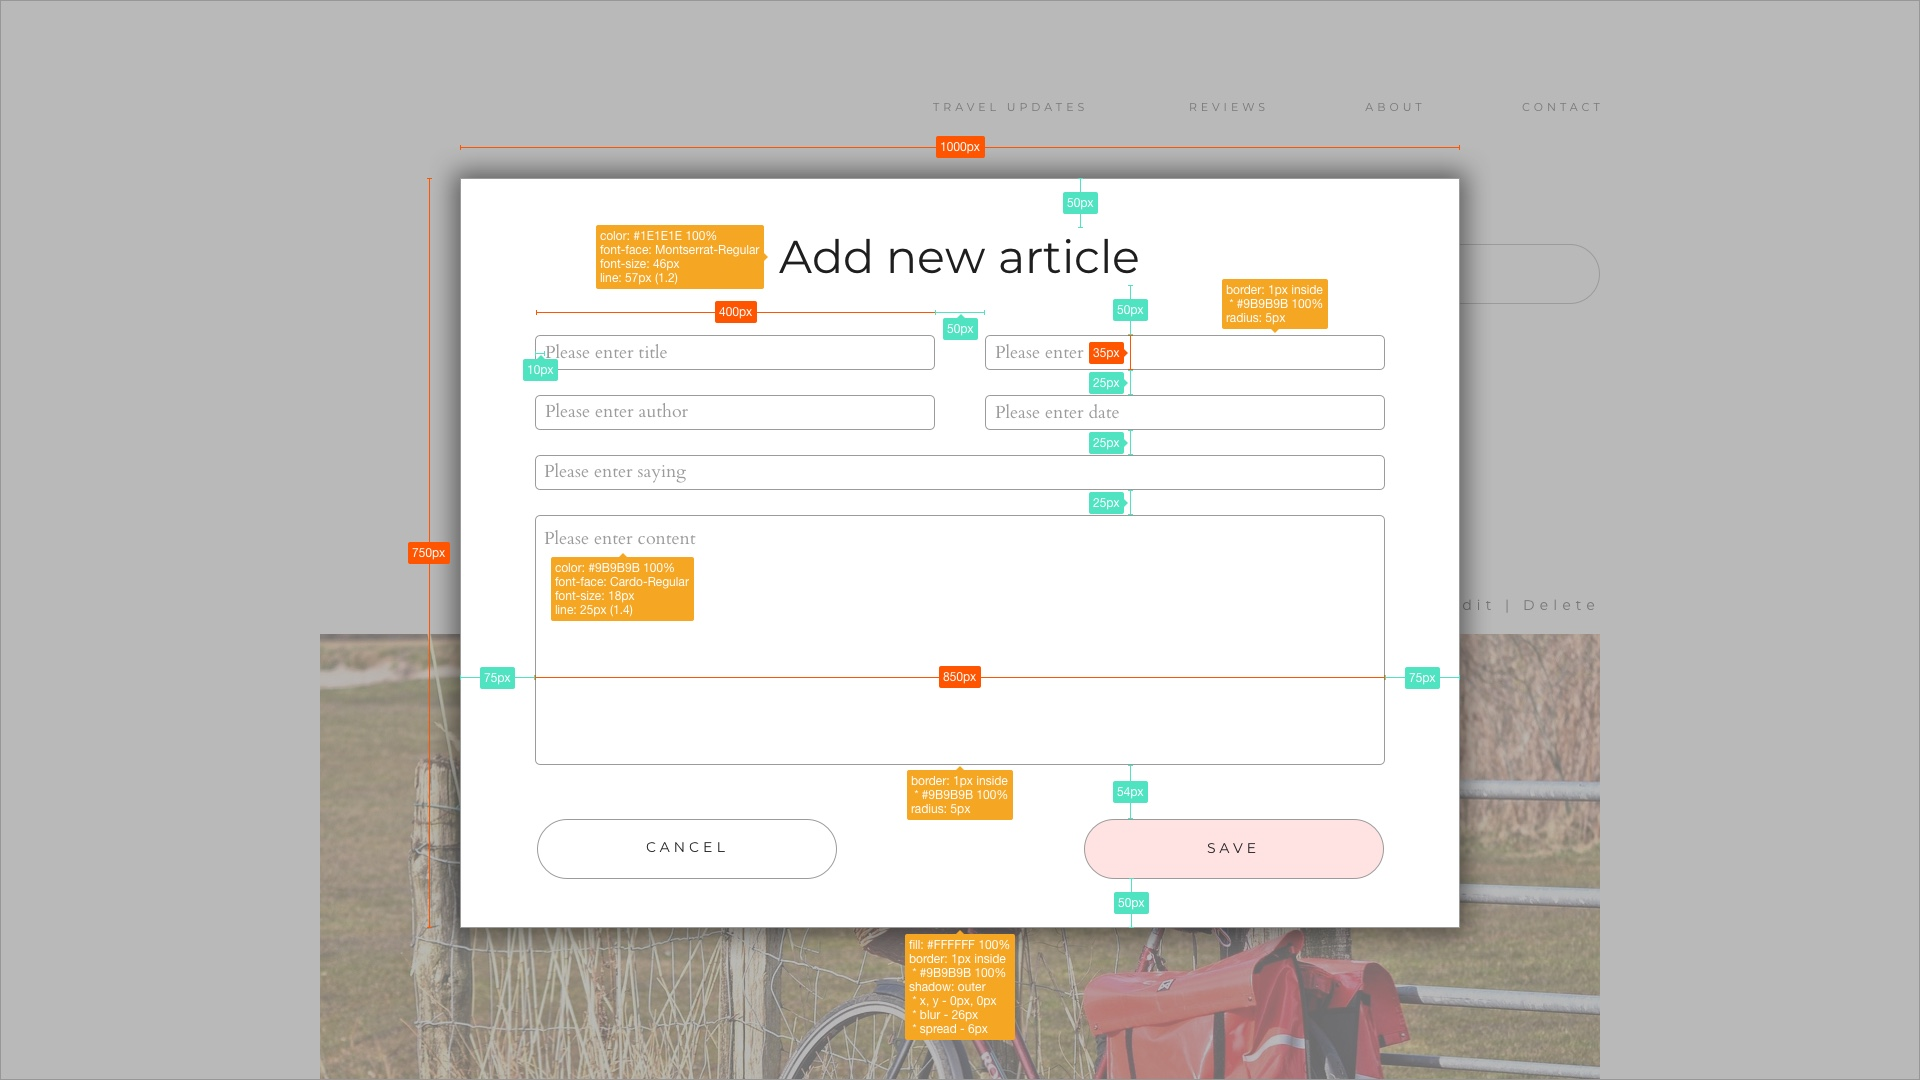
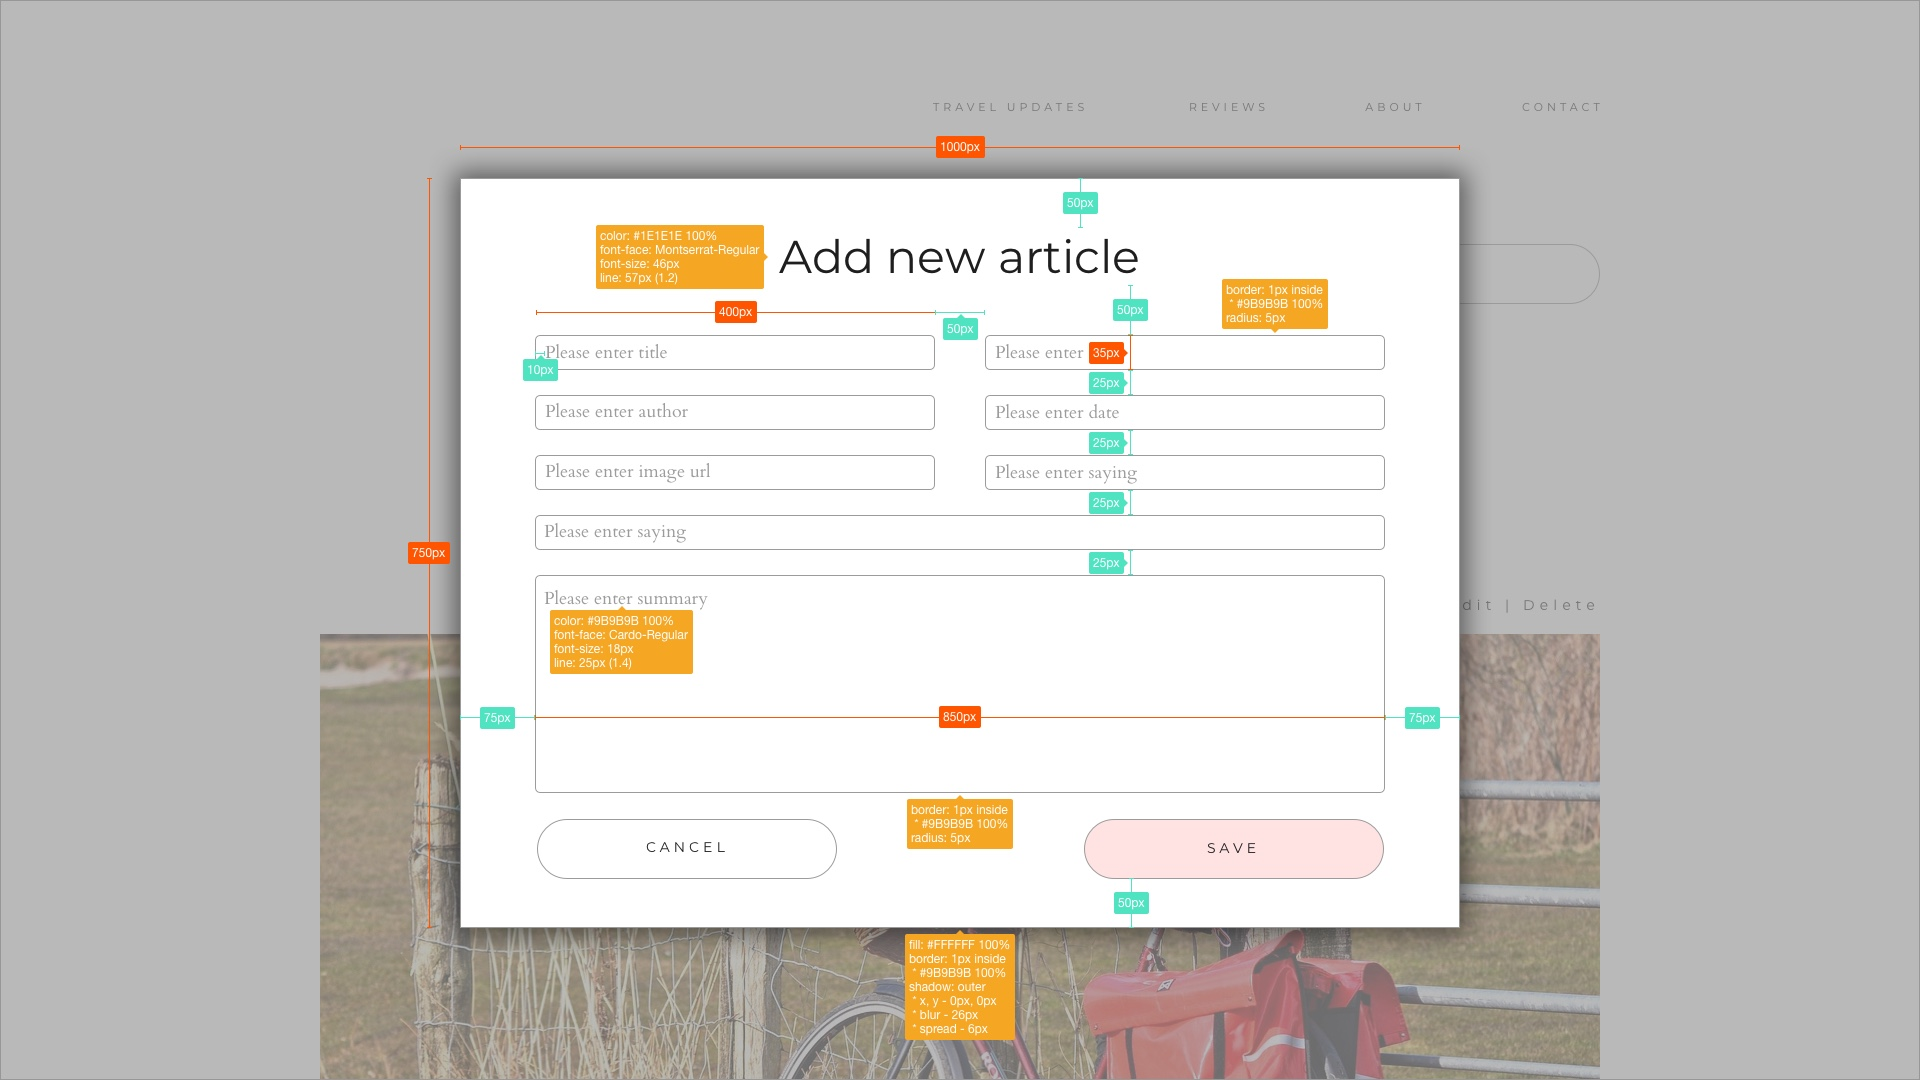
Updated design - Added summary

diff --git a/Day-2_Basic-JS/Exercise/Code/index.html b/Day-2_Basic-JS/Exercise/Code/index.html
@@ -176,9 +176,11 @@
                     <input id="tag" type="text" class="input" placeholder="Please enter tag">
                     <input id="author" type="text" class="input" placeholder="Please enter author">
                     <input id="date" type="text" class="input" placeholder="Please enter date">
-                    <input id="saying" type="text" class="input input--big" placeholder="Please enter saying">
+                    <input id="imgUrl" type="text" class="input" placeholder="Please enter image url">
+                    <input id="saying" type="text" class="input" placeholder="Please enter saying">
+                    <input id="summary" type="text" class="input input--big" placeholder="Please enter summary">
                 </div>
-                <textarea id="content" class="textarea" name="content" cols="28" rows="10" placeholder="Please enter content"></textarea>
+                <textarea id="content" class="textarea" name="content" cols="28" rows="7" placeholder="Please enter content"></textarea>
                 <div class="modal__buttons">
                     <button id="save" type="button" class="button">Cancel</button>
                     <button id="cancel" type="button" class="button button--pink">Save</button>

diff --git a/Day-1_HTML-CSS/Exercise/README.md b/Day-1_HTML-CSS/Exercise/README.md
@@ -30,6 +30,7 @@ and follow the instructions.
   - [Article ReadMore button](#article-readmore-button)
 - [Footer](#footer)
 - [Modal](#modal)
+
 ## HTML document structure
 
 Create index.html and style.css files.
@@ -366,9 +367,11 @@ p {
                 <input type="text" class="input" placeholder="Please enter tag">
                 <input type="text" class="input" placeholder="Please enter author">
                 <input type="text" class="input" placeholder="Please enter date">
-                <input type="text" class="input input--big" placeholder="Please enter saying">
+                <input id="imgUrl" type="text" class="input" placeholder="Please enter image url">
+                <input type="text" class="input" placeholder="Please enter saying">
+                <input type="text" class="input input--big" placeholder="Please enter summary">
             </div>
-            <textarea class="textarea" name="content" cols="28" rows="10" placeholder="Please enter content"></textarea>
+            <textarea class="textarea" name="content" cols="28" rows="7" placeholder="Please enter content"></textarea>
             <div class="modal__buttons">
                 <button type="button" class="button">Cancel</button>
                 <button type="button" class="button button--pink">Save</button>
